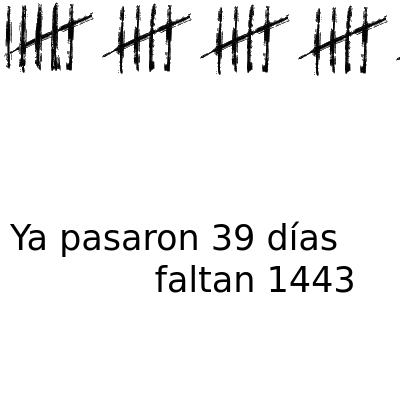
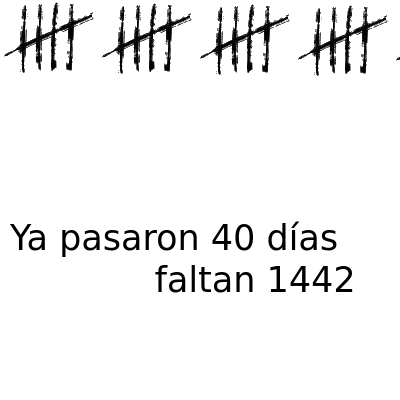
deploy: 28882f26f23b9f53dac6c4991168e610486d0e44

Changed region(s): [[0.0, 0.0, 0.15, 0.18], [0.51, 0.54, 0.63, 0.63], [0.84, 0.66, 0.9, 0.75]]

diff --git a/index.html b/index.html
@@ -3,19 +3,19 @@
   <head>
     <meta charset='utf-8'>
     <meta http-equiv='X-UA-Compatible' content='IE=edge'>
-    <title>Ya pasaron 39 días y faltan 1443</title>
-    <meta name="description" content="Ya pasaron 39 días y faltan 1443">
-    <meta itemprop="name" content="Ya pasaron 39 días y faltan 1443">
-    <meta itemprop="description" content="Ya pasaron 39 días y faltan 1443">
+    <title>Ya pasaron 40 días y faltan 1442</title>
+    <meta name="description" content="Ya pasaron 40 días y faltan 1442">
+    <meta itemprop="name" content="Ya pasaron 40 días y faltan 1442">
+    <meta itemprop="description" content="Ya pasaron 40 días y faltan 1442">
     <meta name="twitter:card" content="summary">
-    <meta name="twitter:title" content="Ya pasaron 39 días y faltan 1443">
-    <meta name="twitter:description" content="Ya pasaron 39 días y faltan 1443">
+    <meta name="twitter:title" content="Ya pasaron 40 días y faltan 1442">
+    <meta name="twitter:description" content="Ya pasaron 40 días y faltan 1442">
     <meta name="twitter:creator" content="@FloriusWasTaken">
     <meta name="twitter:image" content="https://pasaron.meme.ar/capture.png">
-    <meta property="og:title" content="Ya pasaron 39 días y faltan 1443">
-    <meta property="og:description" content="Ya pasaron 39 días y faltan 1443">
+    <meta property="og:title" content="Ya pasaron 40 días y faltan 1442">
+    <meta property="og:description" content="Ya pasaron 40 días y faltan 1442">
     <meta property="og:url" content="https://pasaron.meme.ar">
-    <meta property="og:site_name" content="Ya pasaron 39 días y faltan 1443">
+    <meta property="og:site_name" content="Ya pasaron 40 días y faltan 1442">
     <meta property="og:type" content="website">
     <meta property="og:image" content="https://pasaron.meme.ar/capture.png">
     <meta name="theme-color" content="#dc143c">
@@ -69,18 +69,16 @@
         padding: 0;
       }
     </style>
-    <title>Ya pasaron 39 días y faltan 1443</title>
+    <title>Ya pasaron 40 días y faltan 1442</title>
   </head>
   <body>
     <div id="main">
-      <img src="img/5.png"/><img src="img/5.png"/><img src="img/5.png"/><img src="img/5.png"/><img src="img/5.png"/><img src="img/5.png"/><img src="img/5.png"/>
-      
-        <img src="img/4.png"/>
+      <img src="img/5.png"/><img src="img/5.png"/><img src="img/5.png"/><img src="img/5.png"/><img src="img/5.png"/><img src="img/5.png"/><img src="img/5.png"/><img src="img/5.png"/>
       
     </div>
     <footer id="footer">
       <marquee id="marquee" class="is-vertical-align">
-        Ya pasaron 39 días y faltan 1443
+        Ya pasaron 40 días y faltan 1442
       </marquee>
       <ul>
         <li>
